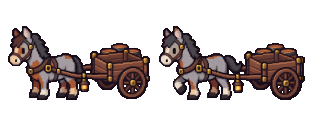
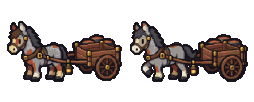
Pociągi parowe na stacjach kolejowych (zaślepki z modelu 3D liczone w tle, każdy pojazd wzdłuż łuku toru), wozy konne tylko przy dworcach autobusowych; wozy konne wyrównane do świata (wyrownaj.py); nowy wygląd domyślnie na serwerze testowym
Claude-Session: https://claude.ai/code/session_0186B56UngdyZ3nbG8b67Ype

Changed region(s): [[0.0, 0.2059, 0.9921, 0.8235]]

diff --git a/src/map/Pociagi.ts b/src/map/Pociagi.ts
@@ -1,0 +1,76 @@
+import Phaser from 'phaser';
+import { dlugosc, klatkaKierunku, hash } from '../gen';
+import { punkt } from './dworzec09';
+import { ziemiaWTle } from './Podloze09';
+import { GEN_DOTS } from './ziemia09';
+import { GROUND_DEPTH, type MapRenderer } from './MapRenderer';
+import type { Line, Place } from './CityMap';
+
+// Parowe składy na stacjach kolejowych (overhaul 09, SPEC_09 punkt 7): lokomotywa, tender i 1–4 wagony stoją na
+// torze przy stacji, każdy pojazd osobno obrócony wzdłuż łuku toru (klatka z kąta stycznej: lokomotywa i tender
+// 16 kierunków, wagony 8). Do czasu arkuszy grafika – zaślepki z modelu 3D (src/gen/pojazdy.ts), liczone w tle.
+
+/** Długości pojazdów w px generatora (z modeli) i odstęp między nimi. */
+const DLUGOSC: Record<string, number> = { lokomotywa: 58, tender: 30, wagon_bordo: 55, wagon_zielony: 55 };
+const ODSTEP = 4;
+/** Komin lokomotywy w modelu (x wzdłuż, z w górę) i rzut jak w generatorze (skos 0,35, ściśnięcie 0,85). */
+const KOMIN = { x: 22.5, z: 29 }, SKOS = 0.35, SCISK = 0.85;
+
+const klatki = new Map<string, Promise<void>>();
+
+export class Pociagi {
+  constructor(private scene: Phaser.Scene, private map: MapRenderer) {}
+
+  /** Tekstury klatki pojazdu (obraz + cień), liczone raz w tle. */
+  private klatka(typ: string, kat: number): Promise<void> {
+    const key = `poj-${typ}-${kat}`;
+    let p = klatki.get(key);
+    if (p && this.scene.textures.exists(key)) return p;
+    p = ziemiaWTle().pojazd(typ, kat).then(({ obraz, cien }) => {
+      if (!this.scene.textures.exists(key)) this.scene.textures.addCanvas(key, obraz)?.setFilter(Phaser.Textures.FilterMode.NEAREST);
+      if (!this.scene.textures.exists(`${key}-c`)) this.scene.textures.addCanvas(`${key}-c`, cien)?.setFilter(Phaser.Textures.FilterMode.NEAREST);
+    });
+    klatki.set(key, p);
+    return p;
+  }
+
+  /** Stawia skład na torze `tor` przy stacji `p` (środek składu naprzeciw drzwi stacji). */
+  postaw(p: Place, tor: { l: Line; s: number }) {
+    let h = 0;
+    for (let i = 0; i < p.id.length; i++) h = (h * 31 + p.id.charCodeAt(i)) >>> 0;
+    const wagonow = 1 + (h % 4);
+    const kolor = hash(h, 1, 5) < 0.5 ? 'wagon_bordo' : 'wagon_zielony';
+    const typy = ['lokomotywa', 'tender', ...Array.from({ length: wagonow }, () => kolor)];
+    const dl = (t: string) => DLUGOSC[t] / GEN_DOTS;
+    const caly = typy.reduce((a, t) => a + dl(t), 0) + ((typy.length - 1) * ODSTEP) / GEN_DOTS;
+    const L = dlugosc(tor.l.pts);
+    if (L < caly + 4) return;
+    // Lokomotywa z przodu; kierunek jazdy (w stronę rosnącego łuku albo odwrotnie) z ziarna stacji.
+    const naprzod = hash(h, 2, 7) < 0.5 ? 1 : -1;
+    const srodek = Math.max(caly / 2 + 2, Math.min(L - caly / 2 - 2, tor.s));
+    let s = srodek + (naprzod * caly) / 2;
+    for (const typ of typy) {
+      const d = dl(typ);
+      const sc = s - (naprzod * d) / 2;
+      s -= naprzod * (d + ODSTEP / GEN_DOTS);
+      const [ax, ay] = punkt(tor.l.pts, sc - (naprzod * d) / 2), [bx, by] = punkt(tor.l.pts, sc + (naprzod * d) / 2);
+      const [x, y] = punkt(tor.l.pts, sc);
+      const kat = (Math.atan2(by - ay, bx - ax) * 180) / Math.PI;
+      const kier = typ.startsWith('wagon') ? klatkaKierunku(kat, 8) : klatkaKierunku(kat, 16);
+      const katKlatki = kier * 22.5;
+      void this.klatka(typ, katKlatki).then(() => this.pokaz(typ, katKlatki, x, y));
+    }
+  }
+
+  private pokaz(typ: string, kat: number, x: number, y: number) {
+    if (!this.scene.sys.isActive()) return;
+    const key = `poj-${typ}-${kat}`;
+    this.scene.add.image(x, y, `${key}-c`).setOrigin(0.5, 0.58).setScale(1 / GEN_DOTS).setAlpha(0.3).setDepth(GROUND_DEPTH + 5);
+    this.scene.add.image(x, y, key).setOrigin(0.5, 0.58).setScale(1 / GEN_DOTS).setDepth(y + 2);
+    if (typ !== 'lokomotywa') return;
+    // Para z komina: punkt komina w rzucie gry.
+    const r = (kat * Math.PI) / 180, zp = KOMIN.z * SCISK;
+    const gx = x * GEN_DOTS + KOMIN.x * Math.cos(r) - SKOS * zp, gy = y * GEN_DOTS + KOMIN.x * Math.sin(r) - zp;
+    this.map.korony.steam(gx, gy, y + 3);
+  }
+}

diff --git a/src/map/Podloze09.ts b/src/map/Podloze09.ts
@@ -1,4 +1,5 @@
 import type { Rodzaj } from '../gen';
+import { TEST } from '../version';
 import type { Area, Line } from './CityMap';
 import { GEN_DOTS, MARGINES, RODZAJE, ziemia, type Zlecenie, type Rodzaj09 } from './ziemia09';
 import type { Drzewo09 } from './drzewa09';
@@ -8,17 +9,19 @@ import type { Drzewo09 } from './drzewa09';
 // (każdy rodzaj = swój kolor-identyfikator), z którego generator czyta rodzaj podłoża w punkcie.
 
 /**
- * Włącznik nowego wyglądu: `?wyglad=09` włącza i zapamiętuje w telefonie (localStorage `exp-wyglad`),
- * `?wyglad=0` wyłącza; przeładowania gry (nowa wersja, grafika) go nie gubią.
+ * Włącznik nowego wyglądu. Na serwerze testowym jest domyślnie włączony (właściciel 5.10.2026: bez dopisków);
+ * `?wyglad=0` wyłącza i zapamiętuje to w telefonie (localStorage `exp-wyglad`), `?wyglad=09` włącza
+ * (też na produkcji, gdy kiedyś tam trafi).
  */
 export const WYGLAD_09 = (() => {
   const q = new URLSearchParams(location.search).get('wyglad');
   try {
     if (q === '09') localStorage.setItem('exp-wyglad', '09');
-    else if (q !== null) localStorage.removeItem('exp-wyglad');
-    return localStorage.getItem('exp-wyglad') === '09';
+    else if (q !== null) localStorage.setItem('exp-wyglad', '0');
+    const zapisany = localStorage.getItem('exp-wyglad');
+    return zapisany === null ? TEST : zapisany === '09';
   } catch {
-    return q === '09';
+    return q === '09' || (q === null && TEST);
   }
 })();
 
@@ -208,7 +211,13 @@ class ZiemiaWTle {
       const ile = Math.max(1, Math.min(2, (navigator.hardwareConcurrency || 2) - 1));
       for (let i = 0; i < ile; i++) {
         const w = new Worker(new URL('./ziemia09.worker.ts', import.meta.url), { type: 'module' });
-        w.onmessage = (e: MessageEvent<{ nr: number; px: Uint32Array; drzewa: Drzewo09[]; para: [number, number][] }>) => {
+        w.onmessage = (e: MessageEvent<{ nr: number; px: Uint32Array; drzewa: Drzewo09[]; para: [number, number][]; cien?: Uint32Array; S?: number }>) => {
+          if (e.data.cien) {
+            const ok = this.pojazdy.get(e.data.nr);
+            this.pojazdy.delete(e.data.nr);
+            ok?.({ obraz: naPlotno(e.data.px, e.data.S!), cien: naPlotno(e.data.cien, e.data.S!) });
+            return;
+          }
           const gotowe = this.czeka.get(e.data.nr);
           const N = this.wymiar.get(e.data.nr)!;
           this.czeka.delete(e.data.nr);
@@ -220,6 +229,19 @@ class ZiemiaWTle {
     } catch {
       this.workery = [];
     }
+  }
+
+  private pojazdy = new Map<number, (k: { obraz: HTMLCanvasElement; cien: HTMLCanvasElement }) => void>();
+
+  /** Klatka pojazdu kolejowego (model z generator/pojazdy.ts) w kierunku `kat` stopni, z cieniem; liczona w tle. */
+  pojazd(typ: string, kat: number): Promise<{ obraz: HTMLCanvasElement; cien: HTMLCanvasElement }> {
+    if (!this.workery.length) return Promise.reject(new Error('bez Web Workera'));
+    const nr = ++this.nr;
+    const w = this.workery[this.kolej++ % this.workery.length];
+    return new Promise((ok) => {
+      this.pojazdy.set(nr, ok);
+      w.postMessage({ nr, pojazd: typ, kat });
+    });
   }
 
   policz(z: Zlecenie): Promise<Gotowe> {

diff --git a/src/map/perony.ts b/src/map/perony.ts
@@ -48,18 +48,7 @@ function peronStacji(m: CityMap, p: Place, okolica: { x0: number; y0: number; x1
   const blisko = (x0: number, y0: number, x1: number, y1: number) => x1 >= p.door.x - osm && x0 <= p.door.x + osm && y1 >= p.door.y - osm && y0 <= p.door.y + osm;
   if (areas.some((a) => a.kind === 'platform' && blisko(a.x0, a.y0, a.x1, a.y1)) || lines.some((l) => l.kind === 'platform' && blisko(l.x0, l.y0, l.x1, l.y1))) return null;
   const tory = lines.filter((l) => l.kind === 'rail');
-  // Najbliższy punkt toru (odległość, linia, długość łuku do niego).
-  let best: { d: number; l: Line; s: number; x: number; y: number } | null = null;
-  for (const l of tory) {
-    let s = 0;
-    for (let i = 0; i + 3 < l.pts.length; i += 2) {
-      const ax = l.pts[i], ay = l.pts[i + 1], dx = l.pts[i + 2] - ax, dy = l.pts[i + 3] - ay, L = Math.hypot(dx, dy) || 1;
-      const t = Math.max(0, Math.min(1, ((p.door.x - ax) * dx + (p.door.y - ay) * dy) / (L * L)));
-      const x = ax + dx * t, y = ay + dy * t, d = Math.hypot(x - p.door.x, y - p.door.y);
-      if (!best || d < best.d) best = { d, l, s: s + t * L, x, y };
-      s += L;
-    }
-  }
+  const best = najblizszyTor(tory, p.door.x, p.door.y);
   if (!best || best.d > PERON.maksOdToruM * PX_PER_M) return null;
   const a = PERON.odToruM * PX_PER_M;
   const inneTory = tory.filter((l) => l !== best!.l);
@@ -143,4 +132,32 @@ export function peronyWOkolicy(m: CityMap, box: { x0: number; y0: number; x1: nu
     out.push({ ring: [], os, tor: stronaToru(os), szer: w1 - w0 });
   }
   return out;
+}
+
+/** Najbliższy punkt torów do (x, y): linia, odległość, długość łuku do niego, sam punkt. */
+export function najblizszyTor(tory: Line[], px: number, py: number) {
+  let best: { d: number; l: Line; s: number; x: number; y: number } | null = null;
+  for (const l of tory) {
+    let s = 0;
+    for (let i = 0; i + 3 < l.pts.length; i += 2) {
+      const ax = l.pts[i], ay = l.pts[i + 1], dx = l.pts[i + 2] - ax, dy = l.pts[i + 3] - ay, L = Math.hypot(dx, dy) || 1;
+      const t = Math.max(0, Math.min(1, ((px - ax) * dx + (py - ay) * dy) / (L * L)));
+      const x = ax + dx * t, y = ay + dy * t, d = Math.hypot(x - px, y - py);
+      if (!best || d < best.d) best = { d, l, s: s + t * L, x, y };
+      s += L;
+    }
+  }
+  return best;
+}
+
+/**
+ * Tor stacji kolejowej (najbliższy drzwiom, najwyżej PERON.maksOdToruM), gdy okolica jest wczytana:
+ * undefined = jeszcze nie wiadomo (kafelki się wczytują), null = to nie kolej (np. dworzec autobusowy).
+ */
+export function torStacji(m: CityMap, p: Place) {
+  const r = 2 * PERON.dlugoscM * PX_PER_M;
+  const okolica = { x0: p.door.x - r, y0: p.door.y - r, x1: p.door.x + r, y1: p.door.y + r };
+  if (!m.ready(okolica)) return undefined;
+  const best = najblizszyTor(m.query(okolica).lines.filter((l) => l.kind === 'rail'), p.door.x, p.door.y);
+  return best && best.d <= PERON.maksOdToruM * PX_PER_M ? best : null;
 }

diff --git a/src/scenes/GameScene.ts b/src/scenes/GameScene.ts
@@ -13,6 +13,9 @@ import { Slime, ENEMY_KINDS, PREDKOSC_WROGOW } from '../objects/Slime';
 import { CityMap, PX_PER_M } from '../map/CityMap';
 import { MapRenderer, wallHeight, WALL_SKEW } from '../map/MapRenderer';
 import type { Korona } from '../map/Korony';
+import { Pociagi } from '../map/Pociagi';
+import { torStacji } from '../map/perony';
+import { WYGLAD_09 } from '../map/Podloze09';
 import { GEN_DOTS } from '../map/ziemia09';
 import { DRZEWA_09 } from '../content/korony';
 import { Explored, FogView, visionPolygon, BASE_VIEW_RANGE, pointInPolygon, markBuilding } from '../map/Fog';
@@ -304,6 +307,7 @@ export class GameScene extends Phaser.Scene {
   }
 
   create() {
+    this.pociagi = undefined; // scenes are reused: the trains belong to the new map view
     this.city = this.registry.get('city') as CityMap;
     this.enemies = [];
     this.dragons = new Map();
@@ -427,7 +431,7 @@ export class GameScene extends Phaser.Scene {
     const showPlace = (p: CityPlace) => {
       const look = PLACE_LOOK[p.kind];
       if (p.building && !this.mapView.highlight.has(p.building)) this.mapView.highlight.set(p.building, { roof: look.roof, wall: look.wall });
-      if (p.kind === 'station') this.placeCarts([p]);
+      if (p.kind === 'station') this.stationVehicles(p);
       else {
         const sign = look.sign === TEX.tent && this.textures.exists(TEX.signCamp) ? TEX.signCamp : look.sign;
         const at = this.signSpot(p);
@@ -1320,6 +1324,24 @@ export class GameScene extends Phaser.Scene {
     return glow;
   }
 
+  private pociagi?: Pociagi;
+
+  /**
+   * Overhaul 09: a steam train on the track at railway stations, the horse cart only at bus stations
+   * (SPEC_09 point 7). Waits until the tiles around the station are in to tell which it is.
+   */
+  private stationVehicles(p: CityPlace, tries = 0) {
+    if (!WYGLAD_09) return this.placeCarts([p]);
+    const tor = torStacji(this.city, p);
+    if (tor === undefined) {
+      if (tries < 40) this.time.delayedCall(800, () => this.stationVehicles(p, tries + 1));
+      else this.placeCarts([p]);
+      return;
+    }
+    if (!tor) return this.placeCarts([p]);
+    (this.pociagi ??= new Pociagi(this, this.mapView)).postaw(p, tor);
+  }
+
   private placeCarts(stations: CityPlace[]) {
     const W = WOZY;
     const file = (p: CityPlace) => {
@@ -1338,6 +1360,8 @@ export class GameScene extends Phaser.Scene {
           const src = tex.getSourceImage() as HTMLImageElement;
           tex.add('f0', 0, 0, 0, src.width / 2, src.height);
           tex.add('f1', 0, src.width / 2, 0, src.width / 2, src.height);
+          // Lined up with the world (scripts/wyrownaj-wozy.py): sharp pixels, no smoothing.
+          tex.setFilter(Phaser.Textures.FilterMode.NEAREST);
         }
         const at = this.cartSpot(p);
         const img = this.add.image(at.x - 10, at.y + 2, key, 'f0').setOrigin(0.5, 0.92);

diff --git a/src/map/ziemia09.worker.ts b/src/map/ziemia09.worker.ts
@@ -1,7 +1,18 @@
 import { ziemia, type Zlecenie } from './ziemia09';
+import { rysujPojazd, cienPojazdu, lokomotywa, tender, wagonOsobowy, type Model } from '../gen';
 
-// Maluje ziemię, budynki i pnie kawałka mapy w tle (overhaul 09), żeby gra się nie przycinała; odsyła też drzewa (korony stawia gra).
-self.onmessage = (e: MessageEvent<Zlecenie & { nr: number }>) => {
-  const { px, drzewa, para } = ziemia(e.data);
-  (self as unknown as Worker).postMessage({ nr: e.data.nr, px, drzewa, para }, [px.buffer]);
+// Maluje ziemię, budynki i pnie kawałka mapy w tle (overhaul 09), żeby gra się nie przycinała; odsyła też drzewa
+// (korony stawia gra) i miejsca pary. Liczy też klatki pojazdów kolejowych z modelu 3D (ok. 0,5–1 s każda).
+const MODELE: Record<string, Model> = { lokomotywa, tender, wagon_bordo: wagonOsobowy('kabina_b'), wagon_zielony: wagonOsobowy('kabina') };
+
+self.onmessage = (e: MessageEvent<(Zlecenie & { nr: number }) | { nr: number; pojazd: string; kat: number }>) => {
+  const d = e.data;
+  if ('pojazd' in d) {
+    const m = MODELE[d.pojazd];
+    const o = rysujPojazd(m, d.kat), c = cienPojazdu(m, d.kat);
+    (self as unknown as Worker).postMessage({ nr: d.nr, px: o.px, cien: c.px, S: o.w }, [o.px.buffer, c.px.buffer]);
+    return;
+  }
+  const { px, drzewa, para } = ziemia(d);
+  (self as unknown as Worker).postMessage({ nr: d.nr, px, drzewa, para }, [px.buffer]);
 };

diff --git a/src/map/Korony.ts b/src/map/Korony.ts
@@ -98,7 +98,7 @@ export class Korony {
   private obloczki = new Set<Phaser.GameObjects.Image>();
 
   /** Obłoczek pary w punkcie (px generatora): 6 klatek z generatora, unosi się i rozwiewa w pętli. */
-  steam(px: number, py: number) {
+  steam(px: number, py: number, glebia?: number) {
     if (!this.scene.textures.exists('para09')) {
       const R = 24;
       const c = document.createElement('canvas');
@@ -111,7 +111,7 @@ export class Korony {
       tex.setFilter(Phaser.Textures.FilterMode.NEAREST);
     }
     const x = px / GEN_DOTS, y = py / GEN_DOTS;
-    const im = this.scene.add.image(x, y, 'para09', 'p0').setOrigin(0.5, 1).setScale(1 / GEN_DOTS).setDepth(y + 1);
+    const im = this.scene.add.image(x, y, 'para09', 'p0').setOrigin(0.5, 1).setScale(1 / GEN_DOTS).setDepth(glebia ?? y + 1);
     im.setData('x0', x).setData('y0', y).setData('faza', hash(px, py, 13) * 6);
     this.obloczki.add(im);
     return im;

diff --git a/src/map/dworzec09.ts b/src/map/dworzec09.ts
@@ -58,7 +58,7 @@ export function wyposazPeron(o: Obraz, X0: number, Y0: number, p: Peron09): [num
 }
 
 /** Punkt łamanej w długości łuku s. */
-function punkt(pts: number[], s: number): [number, number] {
+export function punkt(pts: number[], s: number): [number, number] {
   let acc = 0;
   for (let i = 0; i + 3 < pts.length; i += 2) {
     const ax = pts[i], ay = pts[i + 1], bx = pts[i + 2], by = pts[i + 3], l = Math.hypot(bx - ax, by - ay);

diff --git a/scripts/wyrownaj-wozy.py b/scripts/wyrownaj-wozy.py
@@ -1,0 +1,29 @@
+"""Wozy konne wyrównane do świata gry (właściciel 5.10.2026), tą samą metodą co
+docs/paczka-dla-artysty/8_wyrownanie/wyrownaj.py: zmniejszenie filtrem pudełkowym, kolory
+z palety świata, twarda przezroczystość, obrys 1 px #1e1a24 dookoła sylwetki.
+Arkusz ma 2 klatki obok siebie; całe klatki (z marginesem) zmniejszamy tak samo, więc wóz w grze zostaje tej samej wielkości.
+Docelowo 1 px pliku = 1 px świata (0,5 px mapy): wóz ma w grze 50 px mapy wysokości, więc 100 px.
+Użycie: python3 scripts/wyrownaj-wozy.py  (nadpisuje public/swiat/woz_konny_*.png; oryginały są w historii gita)."""
+import glob, numpy as np
+from PIL import Image
+pal = np.asarray(Image.open('docs/paczka-dla-artysty/8_wyrownanie/paleta_swiata.png').convert('RGB')).reshape(-1, 3)
+pal = np.unique(pal, axis=0).astype(float)
+WYS = 100
+def wyrownaj(a, w, h):
+    a = a.resize((w, h), Image.BOX)
+    arr = np.asarray(a).astype(float); al = arr[..., 3] > 128
+    q = pal[((arr[:, :, None, :3] - pal[None, None]) ** 2).sum(-1).argmin(-1)]
+    out = np.zeros((h + 2, w + 2, 4), np.uint8); out[1:-1, 1:-1, :3] = q; out[1:-1, 1:-1, 3] = al * 255
+    A = out[..., 3] > 0
+    ring = (~A) & (np.roll(A, 1, 0) | np.roll(A, -1, 0) | np.roll(A, 1, 1) | np.roll(A, -1, 1))
+    out[ring] = [0x1e, 0x1a, 0x24, 255]
+    return Image.fromarray(out)
+for f in sorted(glob.glob('public/swiat/woz_konny_*.png')):
+    im = Image.open(f).convert('RGBA'); fw = im.width // 2
+    kl = [im.crop((i * fw, 0, (i + 1) * fw, im.height)) for i in range(2)]
+    h = WYS; w = round(kl[0].width * h / kl[0].height)
+    wy = [wyrownaj(k, w, h) for k in kl]
+    out = Image.new('RGBA', (wy[0].width * 2, wy[0].height))
+    for i, k in enumerate(wy): out.paste(k, (i * k.width, 0))
+    out.save(f)
+    print(f, out.size)

diff --git a/CLAUDE.md b/CLAUDE.md
@@ -105,7 +105,7 @@
 - Place signs glow: a soft golden ADD halo behind each place's sign (`signGlow` in GameScene, texture `sign-glow`, tunables POSWIATA_SZYLDU in content/swiat.ts: radius, strength, colour, slow pulse), gentler than the enemies' red glow, so shops etc. are easy to spot.
 - "📸 Pochwal się" (`src/ui/brag.ts` showBrag/bragCard): a square 1080 px JPEG – the game's view without the HUD (gameShot withHud false), the pixel logo, a line ("Gratulacje!"), the achievement big, the name, level/EXP, date and exp-lore.app – in a window with "📤 Udostępnij" (Web Share with the file; saves it where there is no share menu) and "💾 Zapisz obrazek". Offered on the story's new-title dialog (Brat smoków / Pogromca smoka) and in the character sheet (Postać page: the title, else the level).
 - Combat (content/walka.ts WALKA, owner's spec 30 Sep 2026): damage = skill level + WALKA.zaMoc (1.5) × weapon moc (`meleeDamage`/`shotDamage` in inventory.ts; a stick at level 10 ≈ a middle sword (stalowy, moc 7) at level 1, better swords above it; weapon moc: kijek 1, żelazny 4, stalowy 7, rycerski 12, świetlisty 9, gromowładny 7, łuk 4, długi łuk 7, różdżka 4, kula +3, księga +6 – "the sword doesn't fight for you"); cooldown and hit chance come from level tables (`zTabeli`, straight lines between rows; `cooldown`/`hitChance`/`strongFactor`/`instaKillChance`), plus difficulty `celnosc` (+15 points on Dziecięcy/Młody, cap 100%); a miss shows a floating "pudło!" (`missText`, a missed arrow flies on). Skills go to MAKS_POZIOM 20 (`kosztPoziomu`: ×1.5 per level up to 10, then ×1.25 per level – every level harder than the one before, level 10 ≈ 7 500 hits, 20 ≈ 114 000; the owner: harder but reachable after a while). Reach no longer grows with level. A tap/click/Space = quick attack; holding ≥ mocnyPoMs (1 s, golden ring) = strong: sword ×3→5 by level, ×zasiegMiecz reach, always hits, stuns 0.8 s (not dragons), never a talk/door; bow ×1.8 with its own hit table. Arrows may kill at once (5→15 %, not bosses/dragons/duels, `bezNatychmiast`). Magic keeps the old cooldown for now (the owner plans a fuller magic system later). Enemy life (ENEMY_KINDS) raised to these units and NOT scaled by level: later scaling is to come from Diablo-2-like immunities needing a region's imbue. The weapon picture flies across in front of the hero along a 120° arc, alternating sides (`swingWeapon`). Main hand (`bron`) holds a sword, a bow or a wand (luk/dlugi_luk/rozdzka moved there; `rangedWeapon()` = main hand with `rodzaj`; with one, a tap shoots – except on characters, doors, trees, vegetables – and holding aims); the second hand (`dystans`, "Druga ręka") only holds defence/support: szklana kula / księga (add their moc to spells), later shield and quiver. Old saves with a bow/wand in the second hand get it moved to the backpack (loadGear); buying a bow/wand while holding the stick puts the stick in the backpack.
-- Art direction (owner, 4 Oct 2026; replaces the painterly plan of 30 Sep): the world is detailed pixel art (the horse cart's density, 1 art px = 0.5 map px) and is GENERATED in the phone by code, not drawn by the artist: ground, trees (scale 0.6, denser), undergrowth, buildings from OSM footprints (hip roofs from the nearest edge, snapped to 8 angles in build-map), pipelines, steam, rails. Generator + spec + measurements + prompt: docs/paczka-dla-programisty/ (start with PROMPT_DLA_PROGRAMISTY.md, GENERATOR_SWIATA.md, SPEC_09_zywy_swiat.md). Characters stay the artist's sheets in the 'blondynka' (ranger v1) manner; the artist now only does vehicles (steam locomotive/tender 16 directions, wagons 8), landmarks, signs, new characters (docs/paczka-dla-artysty/ZAMOWIENIE_11_pojazdy_zabytki_postacie.md). Railway stations get steam trains + a conductor instead of horse carts; bus stations keep the carts. Living-world mock-up: https://claude.ai/artifact/NtF1hipA3vgBzxA2fqUoBA. Progress (4 Oct 2026, branch claude/cool-feynman-w5ohu9): G1 generator copied to `src/gen/` (`node scripts/test-gen.mjs` = determinism + seam test); G8 buildings snapped to 8 angles in build-map (`scripts/snap-buildings.mjs` `przyciagnijBudynki`, after road cutting/merging, collision = drawn road (w/2 + 0.4 m) or a neighbour block, shrink 0.5/1 m else unturned; Lublin: 67 090 turned, 2 858 shrunk, 2 676 unturned, 5 560 straight; world maps not yet); G2 ground from the generator behind `?wyglad=09` (`src/map/Podloze09.ts` `mapaRodzajow`: OSM areas/roads/water/rails rasterised into a kind map with 3-channel colour codes, rings outside the chunk skipped – drawing them all took 250 ms; `src/map/ziemia09.ts` `ziemia`: malujPodloze + malujWode + runo, no DOM); G3 the ground is computed in 1–2 Web Workers (`ziemia09.worker.ts`, `ziemiaWTle`), the chunk appears when ready (Chunk.ver drops stale answers); headless: kind map ~13 ms + rest of the chunk ~60 ms on the main thread, ground ~0.5–1 s in the background. G4 (5 Oct 2026): in 09 mode the buildings are painted by the generator in the same worker job (`malujBudynki` in ziemia09.ts: shadows `cienBudynku` darken the ground, then `budynek` north to south: hip roofs with ridges/hips/valleys and light from the NW, walls with windows (lit at night), doors at `Building.door`, chimneys/brass pipes by seed; roof/wall material by seed from DACHY/SCIANY, highlighted places (`highlight`) get materials made from their colours; courtyards (holes) stay ground with a dark edge; `partsOf` hall bands are not used in 09; a per-worker cache of finished building pictures (3 M px) for buildings spanning several chunks). `budynek`'s nearest-edge search is bucketed in 8 px cells (`najblizsze` in src/gen/budynki.ts; exact – same two nearest edges, ties to the lower index; Math.sqrt instead of Math.hypot): the city-centre 1 km tile 50 s → 8 s headless. Roofs of „weird” outlines (owner, 5 Oct 2026: a jagged merged church got a roof of many tiny facets): `bryla()` in src/gen/budynki.ts counts the corners left after a 3 px Douglas–Peucker (`uprosc`); over MAKS_ZALAMAN (14) the roof is computed from the outline simplified at 8 → 14 → 22 px (walls and mask stay on the real outline); courtyards (`OpcjeBudynku.dziury`) are part of the mask and of the roof edges, so roofs slope towards the courtyard and its walls show. Splitting merged rows into separate tenements is not done (the owner offered it as an alternative). Later (5 Oct 2026, „domy poszarpane”): every outline is cleaned with a 1.6 px Douglas–Peucker before painting (the build-map growing/merging leaves tiny rounded teeth), the outline is closed diagonally too (8 neighbours, no dashed edges on slanted walls), `zalaman` counts only sharp corners (> 25°), and a weird outline's roof uses `wygladz` (resampled every 3 px, averaged twice over ±4 samples, then simplified at 1 px) instead of a hard simplification; roof shading uses `gladkaNormalna` (on gentle arcs the normal blends between neighbouring walls, and no hip lines there), so rotundas and curved wings get smooth cone-like roofs; `okragly` (clean circles, no courtyards) gets a true cone (`stozek`). No trees inside building outlines (courtyards included) nor within 6 map px of a wall. Fog: the visible area is cut through a blurred mask (`MGLA.miekkaKrawedz` 14 map px; canvas shadowBlur trick, works on every browser). Training stations in 09 mode: `pixelate` in art.ts (area-average to 2 picture px per map px, hard alpha, generator outline lighter on the lit side, NEAREST). G5 trees (5 Oct 2026, first part): `src/map/drzewa09.ts` `rozstawDrzewa` places trees deterministically in world coordinates (12 px generator grid, rules from dane/gatunki_osm.json by ground kind: park, cemetery, wetland, scrub, needle/mixed forest, sparse on plain grass; clumps/clearings by noise, bushes on forest edges, alder/willow near water, not in buildings); the worker paints crown shadows and trunks sorted with the buildings by base y, and returns the chunk's trees; MapRenderer `crown()` makes each crown a sprite (texture `drz09-<species>-<variant>` from `drzewoZ`, fruit layer included, NEAREST, scale 1/2, depth = base y) kept per chunk (`Chunk.crowns`, `dropCrowns` on recycle). The artist's ZIELEN greenery is off in 09 mode. Wind and see-through (5 Oct 2026): `src/map/Korony.ts` (class Korony, owned by MapRenderer, `updateTrees` called every frame from GameScene.update): each species/variant gets one texture `drz09-<g>-<w>` with 5 wind frames `w-2…w2` (generator `klatkiWiatru`, margin 6, fruit layer merged in), the frame per crown in view comes from the mock-up's wind function (dane/wiatr.json: two sines + a travelling gust, strength clamp(weather.wind/7, 0.1, 2.2); `weather.wind` m/s from the forecast hour, `?wiatr=<m/s>` forces it) plus a rustle when the hero steps under it; a crown in front of the hero (its base south of his feet, leaves around his body centre `KORONY.srodekPostaci`) gets its own small canvas copy of the current frame with a hole of `KORONY.promien` 18 generator px, dithered edge `pas` 5 from a Bayer 4×4 in world coordinates (no Phaser filters), opening/closing at `szybkoscPrzeswitu`; tunables in src/content/korony.ts. Chopping and fruit (5 Oct 2026): every generated tree carries `c` (choppable: in forests/scrub/wetland a share `chop` of the species with a notch, GATUNKI.sciecie) or `o` (why not: park/cemetery `park`, plain grass `ozdobne`, forest non-notched `gruby`, fruit species `sad`); allotments are the `laka` kind with the orchard rule (apple/plum/pear). The worker paints `pienZacios` for choppable trunks and `pieniek` for felled ones (`Zlecenie.sciete`), felled trees get no crown/shadow. State for the session in `STAN` (drzewa09.ts: felled ids, fruit left 2–5), cleared by `odrostDrzew` in startSession (everything grows back at each login). GameScene `treeHit` (from resolveAttack; `Korony.hitAt` on a 32 px grid, trunks block in `moveActor` via `Korony.blocked`, bushes don't): notched → each blow fills a brass progress bar over the crown (LAS.uderzenNaDrzewo segments, fades after DRZEWA_09.pasekGasnieMs and the progress is lost), wood chips, rustle, vibration; the last blow topples the crown (`zetnij`: rotate + fade), `redrawAround` repaints the chunk with the stump, drops `drewno` and a floating "+1 drewno"; fruit trees → shake, one fruit falls (`strac`; species → fruit in DRZEWA_09.owoc, pears give apples until a pear exists), bare ones switch to a fruitless wind sheet (`-p`) and say DRZEWA_09.pusto; protected ones shiver and say why (full text once per reason, then 🔒). In 09 mode the old Orchards trees (except planted demo ones) and Forest pines are off; mushrooms and vegetables stay. The dog's piggy still hides behind Orchards' (now invisible) tree position. Rails and platforms (5 Oct 2026): the worker draws every rail/tram line near the chunk (`clipLine` in MapRenderer, `Zlecenie.tory`) with the generator's `tor()` (ballast, sleepers, rails); platforms are the kind `peron` in the kind map (ziemia09 RODZAJE; the generator sees `chodnik`), repainted after the tracks by `malujPerony` (slabs, light edge, yellow safety line on the track side). Platforms come from OSM `railway=platform` (fetch-osm.sh/fetch-towns.sh ask for them since 5 Oct 2026, build-map → area/line kind `platform`, line width 4 m; needs the "Fetch Lublin map data" workflow run) and, until then or where missing, are made up by `peronyZastepcze` (src/map/perony.ts, PERON: a 70 m × 4 m strip 2.4 m from the axis of the rail line nearest each station's door, on the door's side, else the other side; not next to another track or in a building; none when OSM has a platform within 50 m or the nearest track is over 60 m away). No trees within 8 map px of tracks. Steampunk platforms (owner, 5 Oct 2026: „rury, para, soczewki, lunety”): `src/map/dworzec09.ts` `wyposazPeron` (worker, after the platforms): a brass pipeline (`rurociagWzdluz`) along the back edge with manifolds in the ground at both ends, signal lamps with red/green/amber lenses every DWORZEC.latarniaCo along the track side (every other one steams), a glass-and-iron canopy (`malujWiate`: mullions, sky reflections, brass riveted eave, shadow) over the middle 36 % when the platform is long/wide enough, a steam gauge-clock on a post and a brass telescope on a tripod at one end; the worker returns the steam points and `Korony.steam` makes animated puffs (texture `para09`, the generator's `para` 24 px × 6 frames, rising and drifting with the wind; `Chunk.steam`). `peronyWOkolicy` (perony.ts) gives every platform an axis and track side: made-up ones (now 110/75/45 m × 7/5.5/4 m, the first that fits between other tracks), OSM lines, OSM areas (axis from the main direction of the outline). Trains/conductor wait for the artist (G9). The 09 switch is remembered on the device: `?wyglad=09` stores localStorage `exp-wyglad`, `?wyglad=0` clears it. `window.__czasyKawalkow` / `__czasyCalosci` = recent chunk times. Vite dev mode currently fails with "Cannot access 'CHEST_SLOTS' before initialization" (circular import, pre-existing); test with `vite build` + `vite preview`.
+- Art direction (owner, 4 Oct 2026; replaces the painterly plan of 30 Sep): the world is detailed pixel art (the horse cart's density, 1 art px = 0.5 map px) and is GENERATED in the phone by code, not drawn by the artist: ground, trees (scale 0.6, denser), undergrowth, buildings from OSM footprints (hip roofs from the nearest edge, snapped to 8 angles in build-map), pipelines, steam, rails. Generator + spec + measurements + prompt: docs/paczka-dla-programisty/ (start with PROMPT_DLA_PROGRAMISTY.md, GENERATOR_SWIATA.md, SPEC_09_zywy_swiat.md). Characters stay the artist's sheets in the 'blondynka' (ranger v1) manner; the artist now only does vehicles (steam locomotive/tender 16 directions, wagons 8), landmarks, signs, new characters (docs/paczka-dla-artysty/ZAMOWIENIE_11_pojazdy_zabytki_postacie.md). Railway stations get steam trains + a conductor instead of horse carts; bus stations keep the carts. Living-world mock-up: https://claude.ai/artifact/NtF1hipA3vgBzxA2fqUoBA. Progress (4 Oct 2026, branch claude/cool-feynman-w5ohu9): G1 generator copied to `src/gen/` (`node scripts/test-gen.mjs` = determinism + seam test); G8 buildings snapped to 8 angles in build-map (`scripts/snap-buildings.mjs` `przyciagnijBudynki`, after road cutting/merging, collision = drawn road (w/2 + 0.4 m) or a neighbour block, shrink 0.5/1 m else unturned; Lublin: 67 090 turned, 2 858 shrunk, 2 676 unturned, 5 560 straight; world maps not yet); G2 ground from the generator behind `?wyglad=09` (`src/map/Podloze09.ts` `mapaRodzajow`: OSM areas/roads/water/rails rasterised into a kind map with 3-channel colour codes, rings outside the chunk skipped – drawing them all took 250 ms; `src/map/ziemia09.ts` `ziemia`: malujPodloze + malujWode + runo, no DOM); G3 the ground is computed in 1–2 Web Workers (`ziemia09.worker.ts`, `ziemiaWTle`), the chunk appears when ready (Chunk.ver drops stale answers); headless: kind map ~13 ms + rest of the chunk ~60 ms on the main thread, ground ~0.5–1 s in the background. G4 (5 Oct 2026): in 09 mode the buildings are painted by the generator in the same worker job (`malujBudynki` in ziemia09.ts: shadows `cienBudynku` darken the ground, then `budynek` north to south: hip roofs with ridges/hips/valleys and light from the NW, walls with windows (lit at night), doors at `Building.door`, chimneys/brass pipes by seed; roof/wall material by seed from DACHY/SCIANY, highlighted places (`highlight`) get materials made from their colours; courtyards (holes) stay ground with a dark edge; `partsOf` hall bands are not used in 09; a per-worker cache of finished building pictures (3 M px) for buildings spanning several chunks). `budynek`'s nearest-edge search is bucketed in 8 px cells (`najblizsze` in src/gen/budynki.ts; exact – same two nearest edges, ties to the lower index; Math.sqrt instead of Math.hypot): the city-centre 1 km tile 50 s → 8 s headless. Roofs of „weird” outlines (owner, 5 Oct 2026: a jagged merged church got a roof of many tiny facets): `bryla()` in src/gen/budynki.ts counts the corners left after a 3 px Douglas–Peucker (`uprosc`); over MAKS_ZALAMAN (14) the roof is computed from the outline simplified at 8 → 14 → 22 px (walls and mask stay on the real outline); courtyards (`OpcjeBudynku.dziury`) are part of the mask and of the roof edges, so roofs slope towards the courtyard and its walls show. Splitting merged rows into separate tenements is not done (the owner offered it as an alternative). Later (5 Oct 2026, „domy poszarpane”): every outline is cleaned with a 1.6 px Douglas–Peucker before painting (the build-map growing/merging leaves tiny rounded teeth), the outline is closed diagonally too (8 neighbours, no dashed edges on slanted walls), `zalaman` counts only sharp corners (> 25°), and a weird outline's roof uses `wygladz` (resampled every 3 px, averaged twice over ±4 samples, then simplified at 1 px) instead of a hard simplification; roof shading uses `gladkaNormalna` (on gentle arcs the normal blends between neighbouring walls, and no hip lines there), so rotundas and curved wings get smooth cone-like roofs; `okragly` (clean circles, no courtyards) gets a true cone (`stozek`). No trees inside building outlines (courtyards included) nor within 6 map px of a wall. Fog: the visible area is cut through a blurred mask (`MGLA.miekkaKrawedz` 14 map px; canvas shadowBlur trick, works on every browser). Training stations in 09 mode: `pixelate` in art.ts (area-average to 2 picture px per map px, hard alpha, generator outline lighter on the lit side, NEAREST). G5 trees (5 Oct 2026, first part): `src/map/drzewa09.ts` `rozstawDrzewa` places trees deterministically in world coordinates (12 px generator grid, rules from dane/gatunki_osm.json by ground kind: park, cemetery, wetland, scrub, needle/mixed forest, sparse on plain grass; clumps/clearings by noise, bushes on forest edges, alder/willow near water, not in buildings); the worker paints crown shadows and trunks sorted with the buildings by base y, and returns the chunk's trees; MapRenderer `crown()` makes each crown a sprite (texture `drz09-<species>-<variant>` from `drzewoZ`, fruit layer included, NEAREST, scale 1/2, depth = base y) kept per chunk (`Chunk.crowns`, `dropCrowns` on recycle). The artist's ZIELEN greenery is off in 09 mode. Wind and see-through (5 Oct 2026): `src/map/Korony.ts` (class Korony, owned by MapRenderer, `updateTrees` called every frame from GameScene.update): each species/variant gets one texture `drz09-<g>-<w>` with 5 wind frames `w-2…w2` (generator `klatkiWiatru`, margin 6, fruit layer merged in), the frame per crown in view comes from the mock-up's wind function (dane/wiatr.json: two sines + a travelling gust, strength clamp(weather.wind/7, 0.1, 2.2); `weather.wind` m/s from the forecast hour, `?wiatr=<m/s>` forces it) plus a rustle when the hero steps under it; a crown in front of the hero (its base south of his feet, leaves around his body centre `KORONY.srodekPostaci`) gets its own small canvas copy of the current frame with a hole of `KORONY.promien` 18 generator px, dithered edge `pas` 5 from a Bayer 4×4 in world coordinates (no Phaser filters), opening/closing at `szybkoscPrzeswitu`; tunables in src/content/korony.ts. Chopping and fruit (5 Oct 2026): every generated tree carries `c` (choppable: in forests/scrub/wetland a share `chop` of the species with a notch, GATUNKI.sciecie) or `o` (why not: park/cemetery `park`, plain grass `ozdobne`, forest non-notched `gruby`, fruit species `sad`); allotments are the `laka` kind with the orchard rule (apple/plum/pear). The worker paints `pienZacios` for choppable trunks and `pieniek` for felled ones (`Zlecenie.sciete`), felled trees get no crown/shadow. State for the session in `STAN` (drzewa09.ts: felled ids, fruit left 2–5), cleared by `odrostDrzew` in startSession (everything grows back at each login). GameScene `treeHit` (from resolveAttack; `Korony.hitAt` on a 32 px grid, trunks block in `moveActor` via `Korony.blocked`, bushes don't): notched → each blow fills a brass progress bar over the crown (LAS.uderzenNaDrzewo segments, fades after DRZEWA_09.pasekGasnieMs and the progress is lost), wood chips, rustle, vibration; the last blow topples the crown (`zetnij`: rotate + fade), `redrawAround` repaints the chunk with the stump, drops `drewno` and a floating "+1 drewno"; fruit trees → shake, one fruit falls (`strac`; species → fruit in DRZEWA_09.owoc, pears give apples until a pear exists), bare ones switch to a fruitless wind sheet (`-p`) and say DRZEWA_09.pusto; protected ones shiver and say why (full text once per reason, then 🔒). In 09 mode the old Orchards trees (except planted demo ones) and Forest pines are off; mushrooms and vegetables stay. The dog's piggy still hides behind Orchards' (now invisible) tree position. Rails and platforms (5 Oct 2026): the worker draws every rail/tram line near the chunk (`clipLine` in MapRenderer, `Zlecenie.tory`) with the generator's `tor()` (ballast, sleepers, rails); platforms are the kind `peron` in the kind map (ziemia09 RODZAJE; the generator sees `chodnik`), repainted after the tracks by `malujPerony` (slabs, light edge, yellow safety line on the track side). Platforms come from OSM `railway=platform` (fetch-osm.sh/fetch-towns.sh ask for them since 5 Oct 2026, build-map → area/line kind `platform`, line width 4 m; needs the "Fetch Lublin map data" workflow run) and, until then or where missing, are made up by `peronyZastepcze` (src/map/perony.ts, PERON: a 70 m × 4 m strip 2.4 m from the axis of the rail line nearest each station's door, on the door's side, else the other side; not next to another track or in a building; none when OSM has a platform within 50 m or the nearest track is over 60 m away). No trees within 8 map px of tracks. Steampunk platforms (owner, 5 Oct 2026: „rury, para, soczewki, lunety”): `src/map/dworzec09.ts` `wyposazPeron` (worker, after the platforms): a brass pipeline (`rurociagWzdluz`) along the back edge with manifolds in the ground at both ends, signal lamps with red/green/amber lenses every DWORZEC.latarniaCo along the track side (every other one steams), a glass-and-iron canopy (`malujWiate`: mullions, sky reflections, brass riveted eave, shadow) over the middle 36 % when the platform is long/wide enough, a steam gauge-clock on a post and a brass telescope on a tripod at one end; the worker returns the steam points and `Korony.steam` makes animated puffs (texture `para09`, the generator's `para` 24 px × 6 frames, rising and drifting with the wind; `Chunk.steam`). `peronyWOkolicy` (perony.ts) gives every platform an axis and track side: made-up ones (now 110/75/45 m × 7/5.5/4 m, the first that fits between other tracks), OSM lines, OSM areas (axis from the main direction of the outline). Trains/conductor wait for the artist (G9). The 09 switch (owner, 5 Oct 2026: on the test server without any URL addition): `WYGLAD_09` is on by default on the test server (TEST build) and off on production; `?wyglad=0` / `?wyglad=09` override it and are remembered on the device (localStorage `exp-wyglad` '0'/'09'). Steam trains (G9 with placeholders, owner's pack „pojazdy” from another chat: src/gen/pojazdy.ts – locomotive, tender, passenger wagons from a simple 3D model drawn like the buildings): `src/map/Pociagi.ts` puts at each railway station (`torStacji` in perony.ts: a rail line within PERON.maksOdToruM of the door; else it's a bus station and keeps the horse cart, `stationVehicles` in GameScene, retried until the tiles are in) a locomotive, tender and 1–4 wagons of one colour centred on the track point nearest the door, each vehicle turned by the chord over its own length (locomotive/tender 16 directions, wagons 8, `klatkaKierunku`), frames computed in the background worker (`ziemiaWTle().pojazd`, ~0.5–1 s each, cached as textures `poj-<type>-<angle>` + `-c` shadow at 30 %), steam from the chimney. The coachman stays as the conductor placeholder. Artist pictures in the world are lined up like docs/paczka-dla-artysty/8_wyrownanie/wyrownaj.py (box shrink, world palette PALETA_SWIATA in src/content/paleta.ts, hard alpha, 1 px outline around): training stations at runtime (`pixelate` in art.ts, 09 only), horse carts once by `scripts/wyrownaj-wozy.py` (whole frames 156×125 → 125×100 + outline, so the cart keeps its size; NEAREST). `window.__czasyKawalkow` / `__czasyCalosci` = recent chunk times. Vite dev mode currently fails with "Cannot access 'CHEST_SLOTS' before initialization" (circular import, pre-existing); test with `vite build` + `vite preview`.
 - Weather (owner, 30 Sep 2026; content/pogoda.ts, src/weather.ts, scenes/WeatherFx.ts): the server fetches MET Norway locationforecast/2.0/compact (free, commercial use OK, needs our User-Agent and the credit "Pogoda: MET Norway") for squares of 0.3° lat × 0.45° lon (~33 × 31 km): tables `weather_cells` (hours jsonb: t, c °C, p mm/h, s symbol, w wind, k cloud %, n snow cm) + `weather_requests`; `_weather_request` (pg_net async GET, ≤ 1 per square per 20 min, ≤ 120 per hour in total), `weather_collect` (pg_cron every 2 min parses answers, keeps ~60 hourly entries, carries a modelled snow depth: falls at ≤ 0.5 °C 1 mm = 1 cm, melts 0.25 cm/°C/h + more in rain), `weather_tick` (cron 4:50/10:50/16:50 UTC: squares wanted in the last 48 h), RPC `weather(p_lat, p_lon)` (marks the square wanted, asks MET if it has nothing/stale data, returns {cell, at, h}). The game asks at scene start and every minute (cached per square for POGODA.odswiezMin), `tickWeather` picks the current hour → `weather.kind` czysto/pochmurno/deszcz/ulewa/burza/snieg/mgla, snowLevel 0/1/2 (1/10 cm); `?pogoda=<kind>` forces it. Shown next to the street name in the HUD ("🌧 12°C"), a toast when it changes; WeatherFx draws rain streaks, snowflakes, darker sky, mist thinning around the hero and storm flashes (depth above the fog of war). Effects: WPLYW_NA_POTWORY (hp and contact damage × `sila`, Enemy.power; the story dragon is fire: 0.7 in rain), gangs (`StreetEnemies.forNow`, SKLAD_GANGOW, fixed per spot by hash): at night 60 % bandits instead of imps, in rain imps become water blobs (`blob`, 5 hp, dies from one arrow) and every 3rd a wodnik (`wodnik`, 30 hp, `wodnikThink`: keeps ~12 m away, conjures blobs 3–5 m from the hero every 1.8 s, at most 2, blue magic threads `drawMagic`, his blobs melt when he dies – `dissolve`, no reward); townsfolk in rain: only LUDZIE_W_DESZCZU.ilu (50 %) come out, 45 % with a code-drawn umbrella (`Townsfolk.rethink` remakes people when the weather changes). Placeholders: blob drawn in art.ts (TEX.blob), wodnik = the HD zombie tinted light blue. Snow on the ground and water/fire dragons wait for the artist (docs/paczka-dla-artysty/ZAMOWIENIE_08 part G).
 - `.claude/settings.json` allows `mcp__Supabase__execute_sql` without asking (owner's wish, 30 Sep 2026).
 - Bug fixes 30 Sep 2026 (reports 9–12, 15, 16): explored-but-unseen fog is a light haze (MGLA.mgielka, Fog.ts `haze`), parchment only on unknown ground. Walls lean right (`WALL_SKEW` 0.35 in MapRenderer, east sides shaded by `shadeSides`), so the building reveal in Fog is skewed too. Big buildings (≥ DZIELENIE.odM2 in content/budynki.ts) are painted as 2–5 bands (`partsOf`), every other one a storey higher, each slightly lighter/darker, except castles/palaces/churches/museums/town halls (`bezPodzialu` regex on the name). World maps: unaddressed buildings < SZOPY.usunM2 are dropped, < przejscieM2 are `open` (walkable, `buildingAt` skips them), default storeys SZOPY.domyslniePieter; castle/palace POIs name their building. Place signs hang on the wall nearest the door (`signSpot`). Training station sheets are redrawn with their base aligned (`baseAligned` in art.ts), so the dummy doesn't jump when hit. Admin panel: new password set, `admin_log` table records logins, bad passwords, lockouts and password changes.
